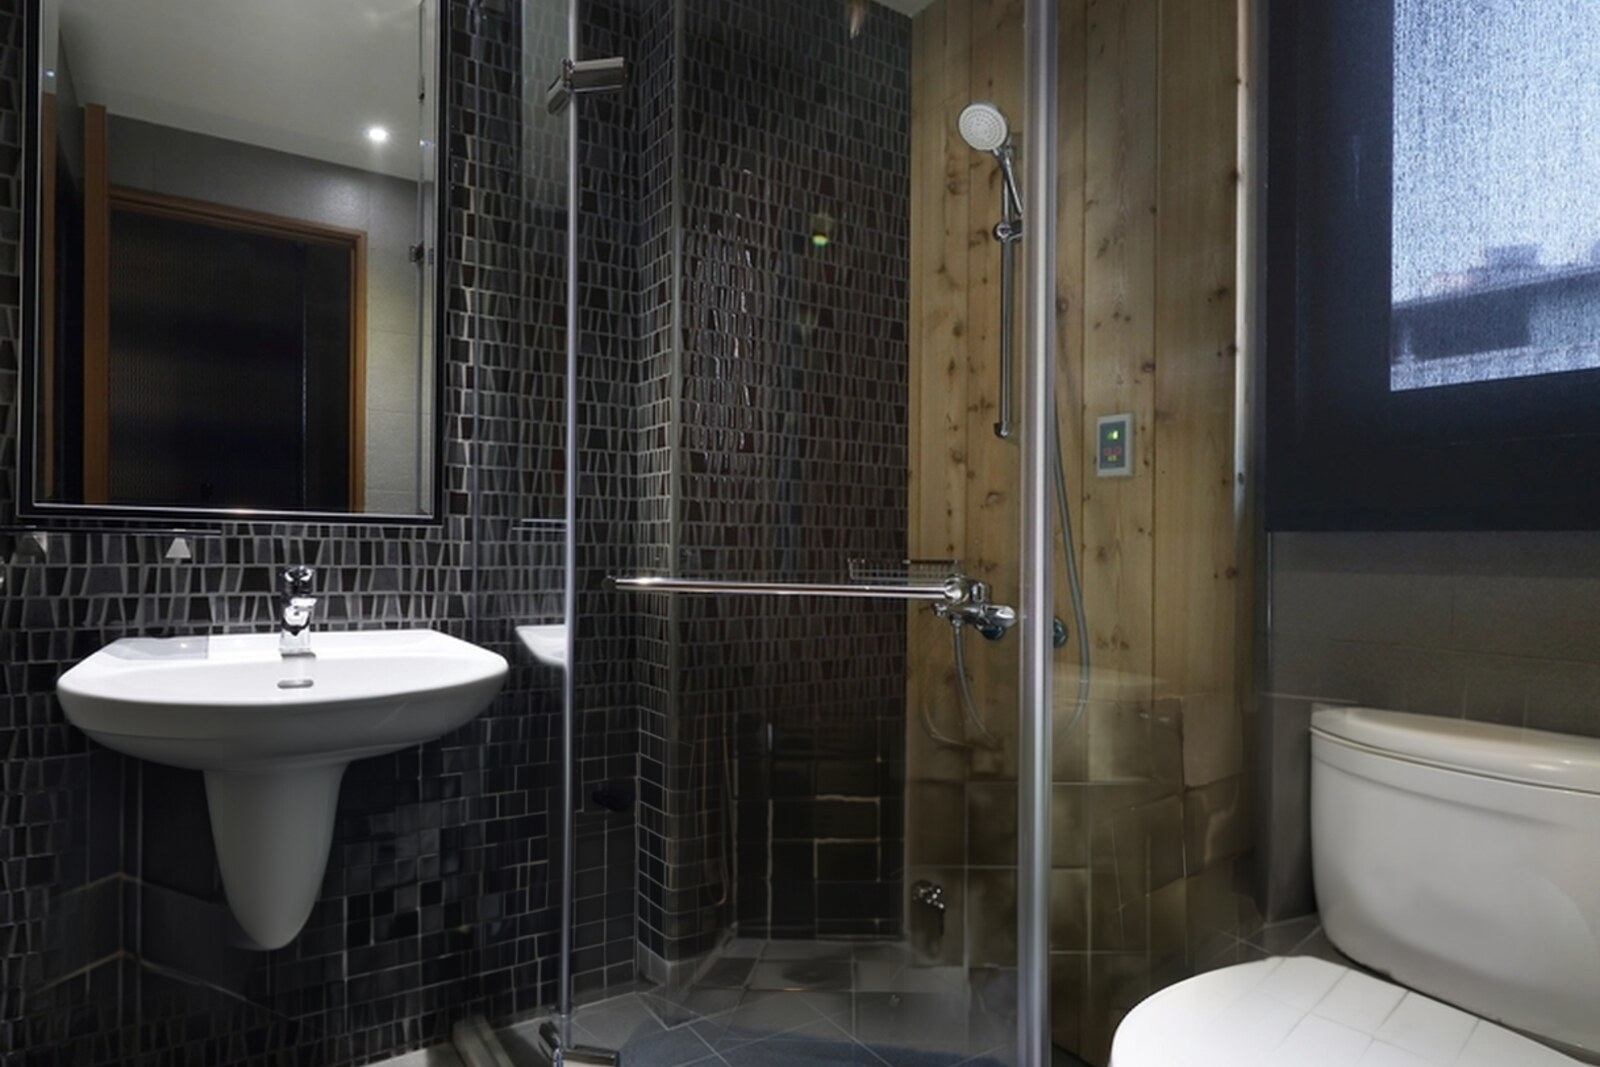
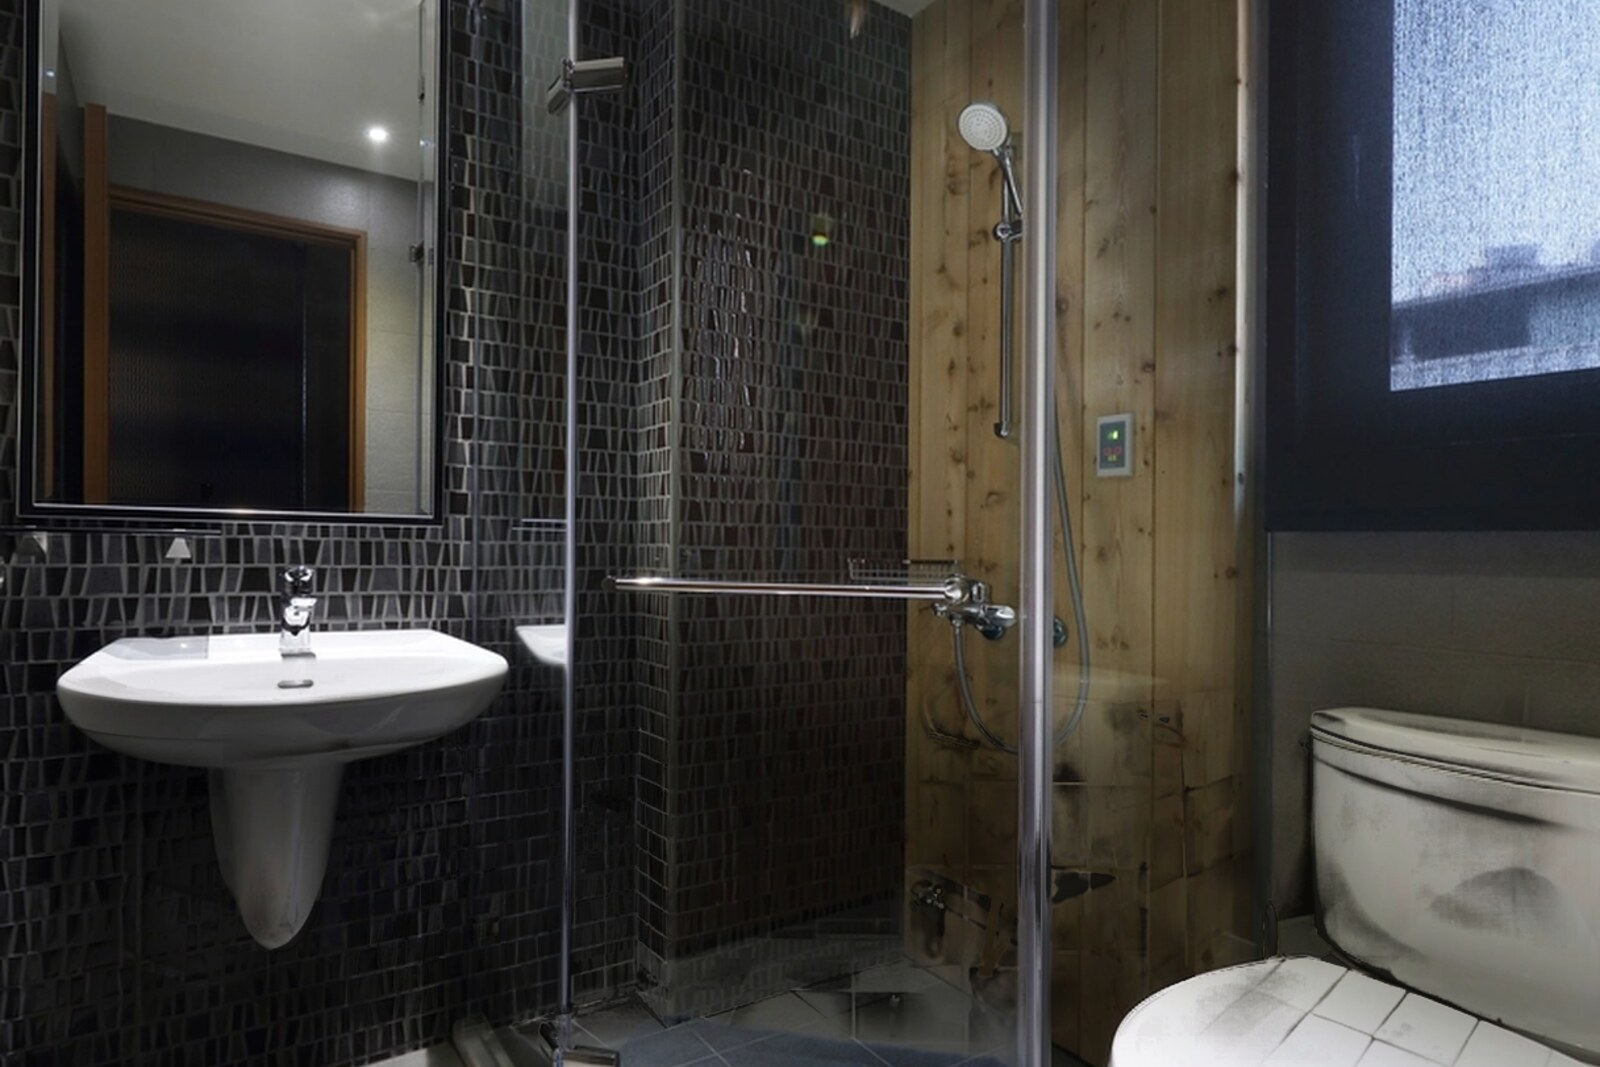
Make the BEFORE frames actually read as dirty at card size
At card size five of the six pairs looked almost identical. The generated dirt
was real but gentle - 3-5% of the band - which does not read as filth in a
470px card. Only the bedroom worked, because it changes structure (unmade bed)
rather than surface tone.

Raising img2img strength does not fix this. At 0.72 the skirting floor's tile
layout is redrawn - new seams, different marble - breaking the one hard
requirement, that both frames be the same image. Amplifying the raw signed
difference fails differently: it turns the model's colour shifts into lurid
teal patches and blown highlights.

boost_grime.py amplifies only the DARKENING, in luminance, multiplied onto the
clean pixel with a warm tint. Dirt absorbs light and is warm, so it can neither
brighten nor shift hue, and the surface underneath stays exactly the surface.
The darkening map is already zero wherever no dirt was painted, so amplified
grime cannot leak outside the crop; the flat dulling term is masked to the same
feathered crop.

Dirt in band, before -> after this change:
  floors 4->12%, bathroom 3->10%, bedroom 9->12%,
  oven 5->10%, skirting 4->15%, hoover 12->23%

Every card still changes exactly 0 pixels outside its band. All six AFTER
images are byte-identical - only the befores changed. Derives from
{card}-before-raw.png so re-running does not compound.

diff --git a/tools/ai-image-generation/boost_grime.py b/tools/ai-image-generation/boost_grime.py
@@ -1,0 +1,88 @@
+#!/usr/bin/env python3
+"""Make the BEFORE frames read as dirty at card size, without touching geometry.
+
+The problem: at card size five of the six pairs looked almost identical. The
+generated dirt was real but gentle - 3-5% of the band - and simply did not read
+as filth in a 470px card.
+
+The obvious fix, raising img2img strength, does not work. At 0.72 the skirting
+floor's tile layout is redrawn: new seams, different marble. That breaks the
+one hard requirement, that the two frames be the same image.
+
+So keep the generation gentle and amplify what it produced, in a way that
+cannot invent anything:
+
+  dark  = how much DARKER the generated dirt is than the clean plate, per pixel
+  before = after * (1 - k*dark - uniform) * warm_tint
+
+Only darkening is used, because dirt absorbs light - it never adds a highlight.
+Amplifying the raw signed difference instead turns colour shifts into lurid
+teal patches and blown highlights, which is what a first attempt did. Working
+in luminance and multiplying the clean pixel keeps hue and texture intact, so
+the surface underneath stays exactly the surface.
+
+`dark` is already zero everywhere the dirt was not painted, so the amplified
+grime cannot leak outside the crop. The uniform dulling can, so it is masked to
+the same feathered crop the dirt used.
+"""
+import sys, numpy as np
+from PIL import Image, ImageFilter
+sys.path.insert(0, "/Users/llp/mums-cleaning-site/tools/ai-image-generation")
+from ai_tiled_dirt import JOBS, W, H, feather_mask
+
+RAW = "/tmp/ai-raw"
+
+# k = how hard to amplify the generated grime
+# u = flat dulling across the cleaned surface, so it reads as "not cleaned"
+BOOST = {
+    "floors":   dict(k=7.0, u=0.05),
+    "bathroom": dict(k=7.0, u=0.06),
+    "bedroom":  dict(k=3.0, u=0.02),   # already reads clearly; barely touched
+    "oven":     dict(k=9.0, u=0.13),
+    "skirting": dict(k=7.0, u=0.05),
+    "hoover":   dict(k=6.0, u=0.04),
+}
+
+WARM = np.array([1.0, 0.985, 0.94], np.float32)   # grime is warm, not neutral grey
+
+def lum(x):
+    return x[..., 0]*0.299 + x[..., 1]*0.587 + x[..., 2]*0.114
+
+def boost(card):
+    cfg = BOOST[card]
+    # Always derive from the pristine generated dirt, never from a previous
+    # boost - otherwise re-running compounds the effect.
+    import os, shutil
+    raw = f"{RAW}/{card}-before-raw.png"
+    if not os.path.exists(raw):
+        shutil.copy(f"{RAW}/{card}-before.png", raw)
+
+    after  = Image.open(f"{RAW}/{card}-after.png").convert("RGB").resize((W, H), Image.LANCZOS)
+    before = Image.open(raw).convert("RGB").resize((W, H), Image.LANCZOS)
+    A = np.asarray(after).astype(np.float32)
+    B = np.asarray(before).astype(np.float32)
+
+    dark = np.clip(lum(A) - lum(B), 0, None) / 255.0
+
+    x0, y0, x1, y1 = JOBS[card]["crop"]
+    bx = (int(x0*W), int(y0*H), int(x1*W), int(y1*H))
+    sw, sh = bx[2]-bx[0], bx[3]-bx[1]
+    m = Image.new("L", (W, H), 0)
+    m.paste(feather_mask(sw, sh, max(10, int(sh*0.16))), bx)
+    region = np.asarray(m).astype(np.float32) / 255.0
+
+    amount = np.clip(cfg["k"]*dark + cfg["u"]*region, 0, 0.78)
+    out = A * (1.0 - amount)[..., None]
+    out = out * (1.0 - (1.0 - WARM) * np.clip(amount*2.0, 0, 1)[..., None])
+    out = np.clip(out, 0, 255).astype(np.uint8)
+
+    Image.fromarray(out).save(f"{RAW}/{card}-before.png")
+
+    d = np.abs(out.astype(int) - A.astype(int)).max(2)
+    outside = region < 0.001
+    print(f"{card:9} visible dirt {(d>26).mean()*100:5.1f}% of frame | "
+          f"max change outside crop = {int(d[outside].max()) if outside.any() else 0}", flush=True)
+
+if __name__ == "__main__":
+    for c in (sys.argv[1:] or list(BOOST)):
+        boost(c)

diff --git a/docs/OVEN-PIPELINE.md b/docs/OVEN-PIPELINE.md
@@ -25,7 +25,10 @@ cp /tmp/ai-raw/oven-before.png /tmp/ai-raw/oven-dirty-layer.png
 # 3. put the two fan discs back, soiled  -> final before/after
 python3 tools/ai-image-generation/oven_restore_fans.py
 
-# 4. install + verify
+# 4. make the grime read at card size (all six cards use this)
+python3 tools/ai-image-generation/boost_grime.py
+
+# 5. install + verify
 python3 tools/ai-image-generation/install_ai.py oven
 python3 tools/verification/verify_pairs.py
 ```
@@ -90,3 +93,23 @@ cd /tmp/ai-raw && magick oven-before.png -resize 470x oven-after.png -resize 470
 ```
 
 `magick montage` fails on this machine ("unable to read font") - use `+append`.
+
+## Why boost_grime.py exists
+
+At card size five of the six pairs looked almost identical - the generated dirt
+was real but gentle, 3-5% of the band, which does not read as filth in a 470px
+card.
+
+Raising img2img strength does not fix it. At 0.72 the skirting floor's tile
+layout is redrawn - new seams, different marble - which breaks the requirement
+that both frames be the same image. Amplifying the raw signed difference does
+not work either: it turns the model's colour shifts into lurid teal patches and
+blown highlights.
+
+What works is amplifying only the *darkening*, in luminance, multiplied onto
+the clean pixel with a warm tint. Dirt absorbs light and is warm, so this can
+neither brighten nor shift hue, and the surface underneath stays exactly the
+surface. Dirt in band roughly doubled or tripled (skirting 4% -> 15%, hoover
+12% -> 23%) with every card still changing 0 pixels outside its crop.
+
+It always derives from `{card}-before-raw.png`, so re-running does not compound.
